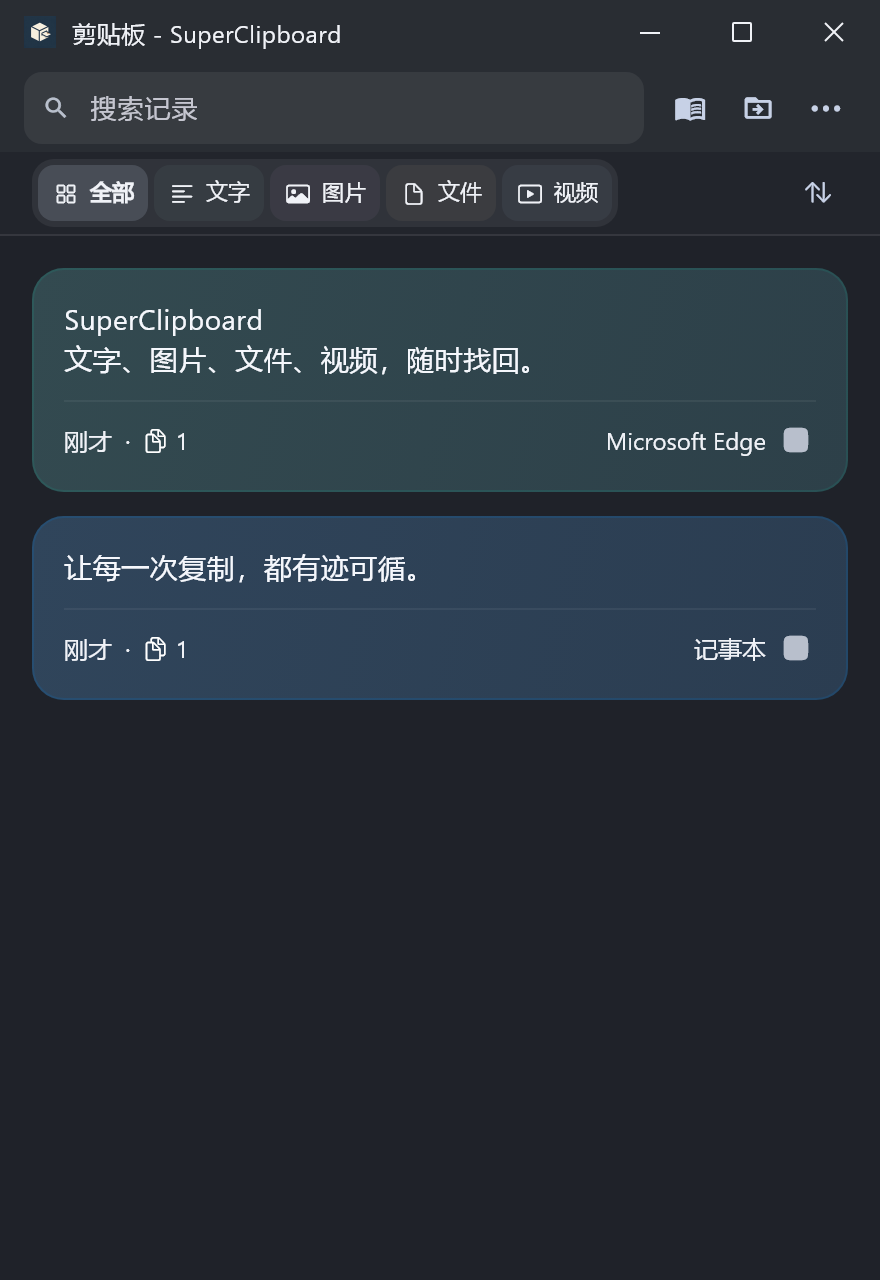
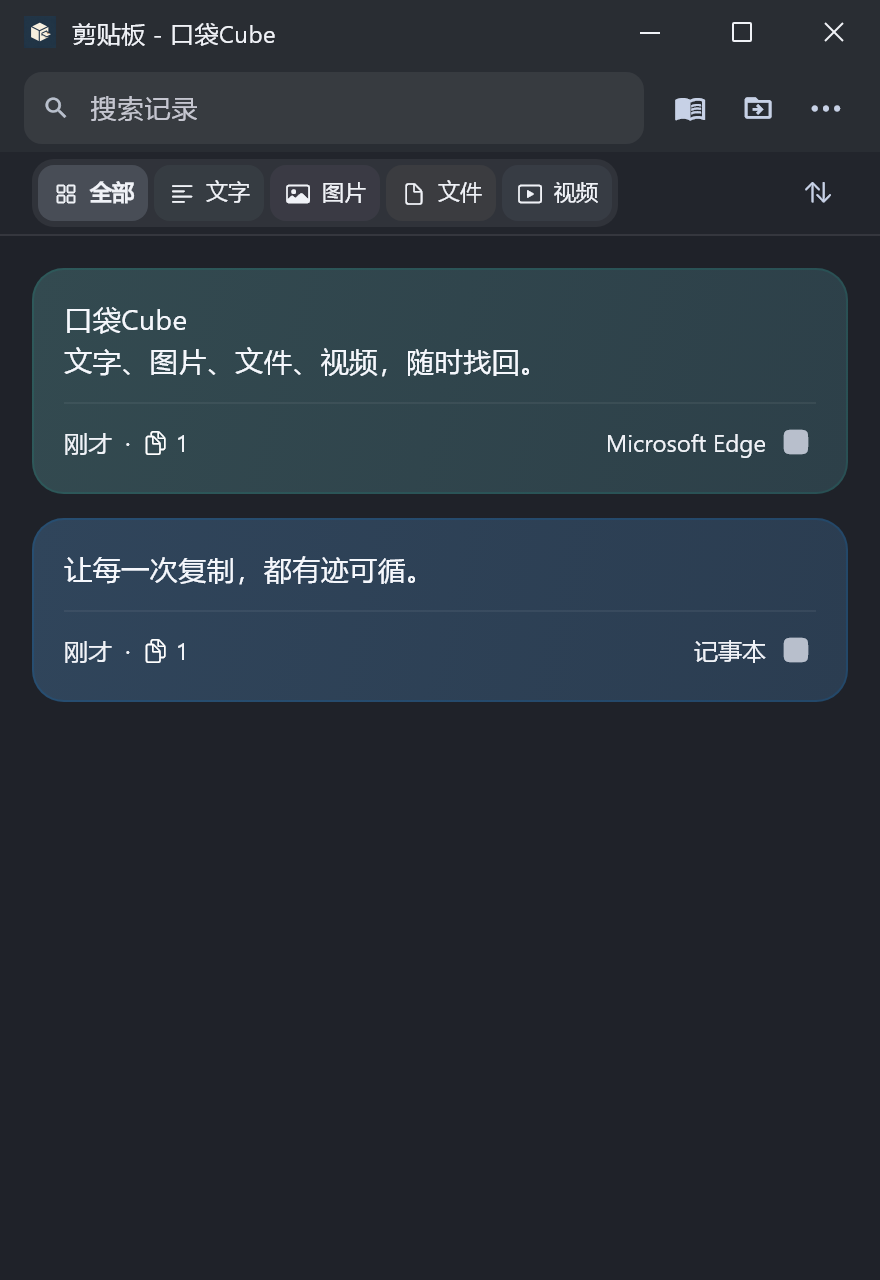
发布口袋Cube v1.3.4：同步应用名称与安装升级入口

diff --git a/lib/src/app.dart b/lib/src/app.dart
@@ -27,7 +27,7 @@ class SuperClipboardApp extends StatelessWidget {
   Widget build(BuildContext context) => ListenableBuilder(
     listenable: store,
     builder: (context, _) => MaterialApp(
-      title: 'SuperClipboard',
+      title: '口袋Cube',
       debugShowCheckedModeBanner: false,
       themeMode: switch (store.settings['appearance']) {
         'dark' => ThemeMode.dark,
@@ -527,11 +527,7 @@ class _ClipboardHomeState extends State<ClipboardHome> {
     },
     itemBuilder: (_) => [
       const PopupMenuItem(value: 'settings', height: 30, child: Text('设置…')),
-      const PopupMenuItem(
-        value: 'about',
-        height: 30,
-        child: Text('关于 SuperClipboard'),
-      ),
+      const PopupMenuItem(value: 'about', height: 30, child: Text('关于 口袋Cube')),
     ],
     child: SizedBox(
       width: 30,
@@ -576,7 +572,7 @@ class _ClipboardHomeState extends State<ClipboardHome> {
       children: [
         if (store.windowsStyle) ...[
           WindowsTitleBar(
-            title: '${library == 'notebook' ? '记事本' : '剪贴板'} - SuperClipboard',
+            title: '${library == 'notebook' ? '记事本' : '剪贴板'} - 口袋Cube',
             enabled: store.usePlatform,
             maximized: store.windowMaximized,
           ),
@@ -851,12 +847,7 @@ class _ClipboardHomeState extends State<ClipboardHome> {
                 size: 28,
               ),
               const SizedBox(width: 4),
-              ToolButton(
-                CupertinoIcons.power,
-                '退出 SuperClipboard',
-                _quit,
-                size: 28,
-              ),
+              ToolButton(CupertinoIcons.power, '退出 口袋Cube', _quit, size: 28),
             ],
           ),
           const SizedBox(height: 10),
@@ -1128,7 +1119,7 @@ class _ClipboardHomeState extends State<ClipboardHome> {
             Image.asset('assets/app_logo.png', width: 80, height: 80),
             const SizedBox(height: 12),
             const Text(
-              'SuperClipboard',
+              '口袋Cube',
               style: TextStyle(
                 fontFamily: ReplicaMetrics.fontFamily,
                 fontFamilyFallback: ReplicaMetrics.fontFallback,
@@ -1183,7 +1174,7 @@ class _ClipboardHomeState extends State<ClipboardHome> {
                   ),
                   const SizedBox(height: 16),
                   const Text(
-                    '退出 SuperClipboard？',
+                    '退出 口袋Cube？',
                     style: TextStyle(
                       fontFamily: ReplicaMetrics.fontFamily,
                       fontFamilyFallback: ReplicaMetrics.fontFallback,

diff --git a/test/ui_test.dart b/test/ui_test.dart
@@ -103,7 +103,7 @@ void main() {
     await store.command({
       'op': 'ingest',
       'data': {
-        'text': 'SuperClipboard\n文字、图片、文件、视频，随时找回。',
+        'text': '口袋Cube\n文字、图片、文件、视频，随时找回。',
         'source': 'Microsoft Edge',
         'tint': 0xff159b87,
       },
@@ -467,9 +467,9 @@ void main() {
     expect(find.text('历史记录'), findsOneWidget);
     expect(find.text('2 条'), findsOneWidget);
     expect(find.byType(EntryDetail), findsNothing);
-    await tester.tap(find.byTooltip('退出 SuperClipboard'));
+    await tester.tap(find.byTooltip('退出 口袋Cube'));
     await tester.pumpAndSettle();
-    expect(find.text('退出 SuperClipboard？'), findsOneWidget);
+    expect(find.text('退出 口袋Cube？'), findsOneWidget);
     final quitSurface = find.descendant(
       of: find.byType(Dialog),
       matching: find.byType(MacGlassSurface),

diff --git a/lib/src/store.dart b/lib/src/store.dart
@@ -722,11 +722,9 @@ class ClipboardStore extends ChangeNotifier {
   }
 
   Future<void> _migrate(String parent) async {
-    final destination = Directory('$parent/SuperClipboard Notebook');
+    final destination = Directory('$parent/口袋Cube Notebook');
     if (await destination.exists()) {
-      throw const FileSystemException(
-        '目标已有 SuperClipboard Notebook 文件夹，请选择其他位置。',
-      );
+      throw const FileSystemException('目标已有 口袋Cube Notebook 文件夹，请选择其他位置。');
     }
     final oldPath = notebookPath;
     final oldNotebook = notebook;

diff --git a/windows/runner/platform_bridge.cpp b/windows/runner/platform_bridge.cpp
@@ -265,7 +265,7 @@ void TrayIcon(HWND hwnd) {
   tray = {}; tray.cbSize = sizeof(tray); tray.hWnd = hwnd; tray.uID = 1;
   tray.uFlags = NIF_MESSAGE | NIF_ICON | NIF_TIP; tray.uCallbackMessage = kTray;
   tray.hIcon = TrayThemeIcon();
-  wcscpy_s(tray.szTip, L"SuperClipboard");
+  wcscpy_s(tray.szTip, L"口袋Cube");
   Shell_NotifyIcon(NIM_ADD, &tray);
   tray_visibility_attempts = 0;
   SetTimer(hwnd, kTrayVisibility, 1000, nullptr);
@@ -351,7 +351,7 @@ PlatformBridge::PlatformBridge(flutter::BinaryMessenger* messenger, HWND window,
     // An independent top-level window stays available when all Flutter windows
     // are hidden or minimized. Keep its timer independent of their lifecycle.
     receiver_window = CreateWindowEx(WS_EX_TOPMOST | WS_EX_TOOLWINDOW | WS_EX_NOACTIVATE,
-      wc.lpszClassName, L"SuperClipboard 文件收纳", WS_POPUP, 0, 0, 190, 90, nullptr, nullptr, wc.hInstance, nullptr);
+      wc.lpszClassName, L"口袋Cube 文件收纳", WS_POPUP, 0, 0, 190, 90, nullptr, nullptr, wc.hInstance, nullptr);
     if (receiver_window) {
       const DWM_WINDOW_CORNER_PREFERENCE round = DWMWCP_ROUND;
       DwmSetWindowAttribute(receiver_window, DWMWA_WINDOW_CORNER_PREFERENCE, &round, sizeof(round));
@@ -598,7 +598,7 @@ void PlatformBridge::ShowWindowForMode(const std::string& mode) {
     flutter::DartProject project(L"data"); project.set_dart_entrypoint_arguments({mode});
     auto window = std::make_unique<FlutterWindow>(project, mode);
     POINT cursor; GetCursorPos(&cursor);
-    window->Create(mode == "transfer" ? L"悬浮中转" : L"SuperClipboard 快捷历史",
+    window->Create(mode == "transfer" ? L"悬浮中转" : L"口袋Cube 快捷历史",
       Win32Window::Point(200, 100), Win32Window::Size(mode == "transfer" ? 350 : 390, 520));
     extra_windows.push_back(std::move(window));
   }
@@ -684,12 +684,12 @@ std::optional<LRESULT> PlatformBridge::Handle(UINT message, WPARAM wp, LPARAM lp
       else if (lp == WM_RBUTTONUP) {
         HMENU menu = CreatePopupMenu();
         AppendMenu(menu, MF_STRING, 1, L"打开主窗口"); AppendMenu(menu, MF_STRING, 2, L"悬浮中转");
-        AppendMenu(menu, MF_SEPARATOR, 0, nullptr); AppendMenu(menu, MF_STRING, 3, L"退出 SuperClipboard…");
+        AppendMenu(menu, MF_SEPARATOR, 0, nullptr); AppendMenu(menu, MF_STRING, 3, L"退出 口袋Cube…");
         POINT p; GetCursorPos(&p); SetForegroundWindow(window_);
         auto cmd = TrackPopupMenu(menu, TPM_RETURNCMD | TPM_RIGHTBUTTON, p.x, p.y, 0, window_, nullptr);
         DestroyMenu(menu);
         if (cmd == 1) ShowWindowForMode("main"); else if (cmd == 2) ShowWindowForMode("transfer");
-        else if (cmd == 3 && MessageBox(window_, L"退出后将停止记录剪贴板内容。", L"退出 SuperClipboard？", MB_OKCANCEL | MB_ICONQUESTION) == IDOK) {
+        else if (cmd == 3 && MessageBox(window_, L"退出后将停止记录剪贴板内容。", L"退出 口袋Cube？", MB_OKCANCEL | MB_ICONQUESTION) == IDOK) {
           quitting = true; PostQuitMessage(0);
         }
       }

diff --git a/windows/runner/main.cpp b/windows/runner/main.cpp
@@ -41,7 +41,7 @@ int APIENTRY wWinMain(_In_ HINSTANCE instance, _In_opt_ HINSTANCE prev,
   FlutterWindow window(project);
   Win32Window::Point origin(180, 100);
   Win32Window::Size size(440, 640);
-  if (!window.Create(L"SuperClipboard", origin, size)) {
+  if (!window.Create(L"口袋Cube", origin, size)) {
     return EXIT_FAILURE;
   }
   window.SetQuitOnClose(true);

diff --git a/README.md b/README.md
@@ -1,6 +1,6 @@
-# SuperClipboard for Windows
+# 口袋Cube for Windows
 
-<img src="assets/app_logo.png" width="96" alt="SuperClipboard 图标">
+<img src="assets/app_logo.png" width="96" alt="口袋Cube 图标">
 
 **让每一次复制，都有迹可循。**
 
@@ -14,8 +14,8 @@
 
 | 文件 | 使用方式 |
 | --- | --- |
-| `SuperClipboard-<版本>-windows-x64-setup.exe` | 中文安装向导，安装到当前用户目录，无需管理员权限，提供开始菜单入口和卸载功能 |
-| `SuperClipboard-Windows-x64-v<版本>.zip` | 免安装版，完整解压后打开 `SuperClipboard.exe`，保留同目录的 DLL 和 data 文件夹 |
+| `PocketCube-<版本>-windows-x64-setup.exe` | 中文安装向导，安装到当前用户目录，无需管理员权限，提供开始菜单入口和卸载功能 |
+| `PocketCube-Windows-x64-v<版本>.zip` | 免安装版，完整解压后打开 `PocketCube.exe`，保留同目录的 DLL 和 data 文件夹 |
 | `SHA256SUMS.txt` | 下载文件的 SHA-256 校验值 |
 
 面向 Windows 10/11 x64，当前验证环境为 Windows 11 x64。升级前请从托盘退出旧版。当前发布包未做商业代码签名。卸载程序不会主动删除个人历史数据。
@@ -65,7 +65,7 @@ Windows 关闭系统“透明效果”时，桌面毛玻璃会使用较实的材
 
 ## 存储
 
-默认数据目录：`%APPDATA%\SuperClipboard`。
+默认数据目录：`%APPDATA%\SuperClipboard`。口袋Cube 沿用旧版数据目录，升级后继续使用原有历史、记事本和设置。
 
 - `state.json`：历史、设置和共享状态，写入时保留 `.bak`。
 - `History/`：应用保存的历史图片；历史文件记录继续引用原始文件。

diff --git a/docs/release-notes/v1.3.4.md b/docs/release-notes/v1.3.4.md
@@ -1,0 +1,8 @@
+# 口袋Cube Windows v1.3.4
+
+- 应用正式更名为“口袋Cube”，同步主窗口、托盘、快捷历史、关于与退出提示，以及 Windows 文件属性中的产品名称。
+- 安装程序、开始菜单及桌面快捷方式使用新名称，免安装程序与发布附件使用 PocketCube 文件名。
+- 沿用旧版数据目录和安装升级标识，保留剪贴板历史、记事本、中转站与已有设置；升级安装时清理旧名称的快捷方式与程序入口。
+- 继续支持设置 → 通用与外观 → 开机启动，登录 Windows 后在托盘后台运行。
+
+下载 PocketCube-1.3.4-windows-x64-setup.exe 安装，或完整解压 PocketCube-Windows-x64-v1.3.4.zip 后运行 PocketCube.exe。升级前从托盘退出旧版，保留同目录的 DLL 和 data 文件夹。SHA256SUMS.txt 提供附件校验。

diff --git a/CHANGELOG.md b/CHANGELOG.md
@@ -1,5 +1,9 @@
 # 更新日志
 
+## 1.3.4（2026-10-24）
+
+- 应用更名为“口袋Cube”，同步窗口、托盘、关于与退出提示、安装程序、快捷方式和 PocketCube 打包文件名；保留旧版数据目录及升级标识。
+
 ## 1.3.3（2026-10-24）
 
 - 修复页面关闭后桌面文件拖动无法唤出收纳入口，改用鼠标钩子跟踪并识别桌面文件源，入口位于当前屏幕左上角，排除普通拖选与文字拖动。
